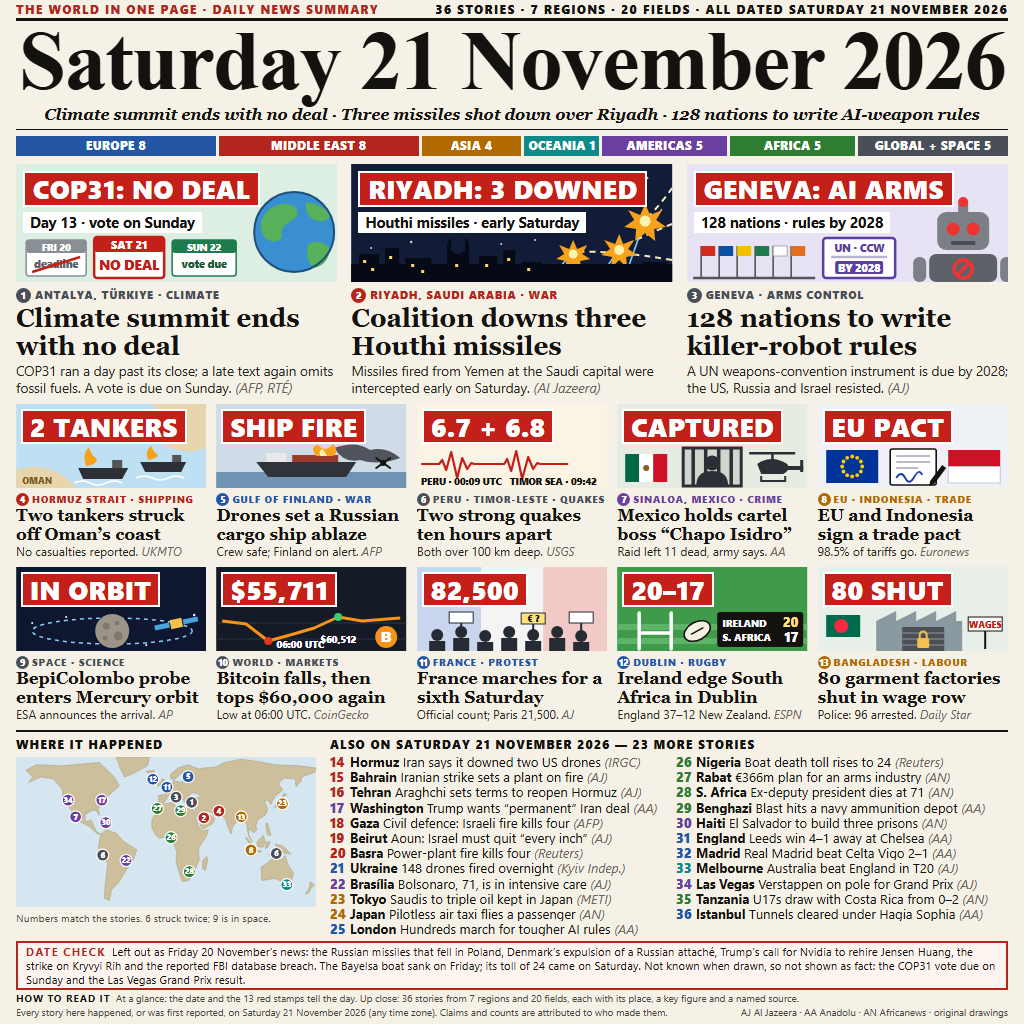
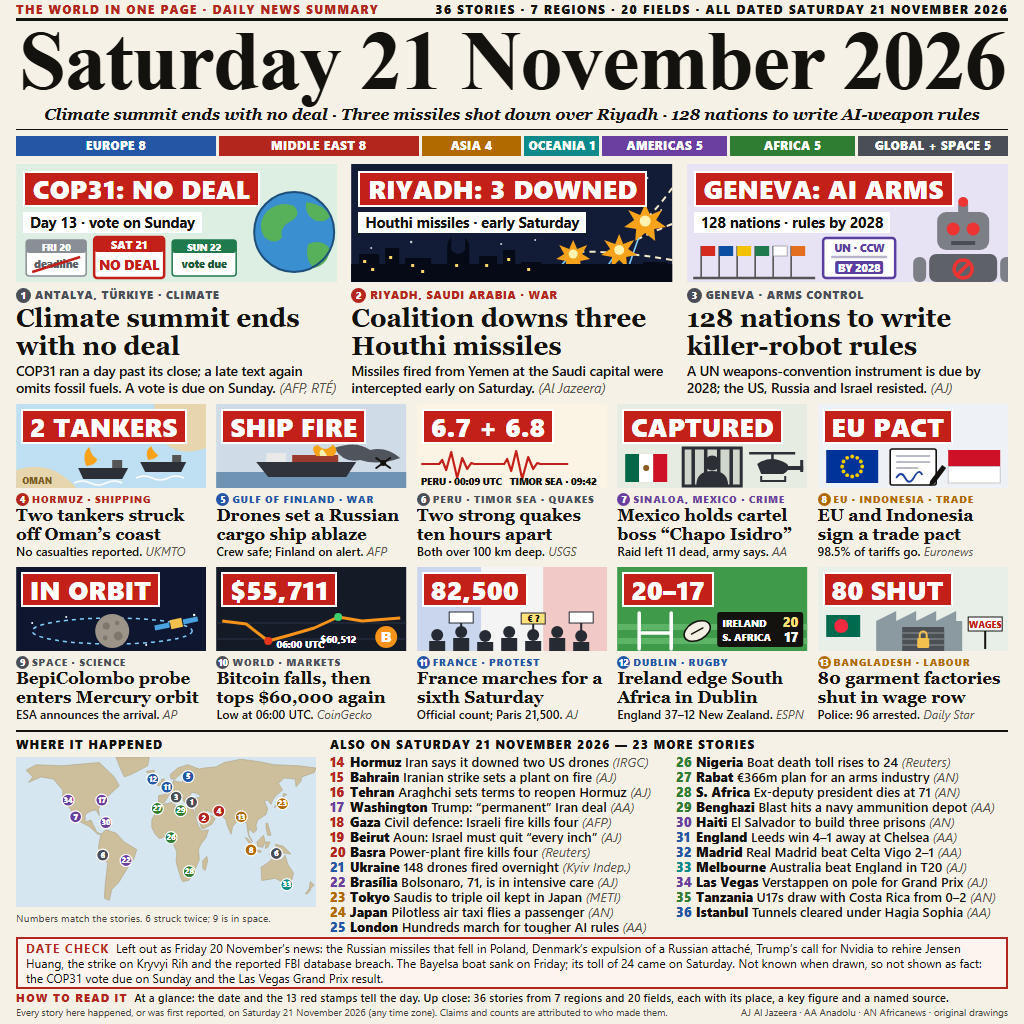
Heavier, darker small text; larger date check and reader's guide

diff --git a/src/page.html b/src/page.html
@@ -32,7 +32,7 @@
   .tag { font-weight: 800; letter-spacing: 1px; color: var(--c); white-space: nowrap; overflow: hidden; }
   .n { display: inline-block; background: var(--c); color: #fff; border-radius: 50%; text-align: center; letter-spacing: 0;
        font-weight: 800; margin-right: 4px; }
-  .src { color: #6a6459; font-style: italic; }
+  .src { color: #57524a; font-style: italic; font-weight: 400; }
 
   /* Leads */
   .leads { height: 234px; margin-top: 8px; display: flex; gap: 14px; }
@@ -43,20 +43,20 @@
   .lead .tag { font-size: 10.5px; line-height: 16px; margin-top: 5px; }
   .lead .n { width: 15px; height: 15px; line-height: 15px; font-size: 10px; }
   .lead h2 { font-family: Georgia, serif; font-size: 26px; line-height: 28px; height: 56px; overflow: hidden; margin-top: 1px; }
-  .lead p { font-size: 13.5px; line-height: 17px; margin-top: 2px; color: #26231e; }
+  .lead p { font-size: 13.5px; line-height: 17px; margin-top: 2px; color: #14120e; font-weight: 600; }
 
   /* Tiles */
   .tiles { height: 318px; margin-top: 6px; display: grid; grid-template-columns: repeat(5, 1fr); grid-template-rows: 155px 155px; gap: 8px 10px; }
   .tile { min-width: 0; }
   .tile .pic { height: 84px; }
   .tile .stamp { font-size: 26px; line-height: 31px; padding: 0 7px; left: 5px; top: 5px; }
-  .tile .tag { font-size: 9.6px; line-height: 14px; margin-top: 4px; }
+  .tile .tag { font-size: 10.3px; line-height: 14px; margin-top: 4px; letter-spacing: .7px; }
   .tile .n { width: 13px; height: 13px; line-height: 13px; font-size: 8.5px; margin-right: 3px; }
   .tile h3 { font-family: Georgia, serif; font-size: 17px; line-height: 19px; height: 38px; overflow: hidden; }
-  .tile p { font-size: 12px; line-height: 15px; white-space: nowrap; overflow: hidden; color: #26231e; }
+  .tile p { font-size: 12px; line-height: 15px; white-space: nowrap; overflow: hidden; color: #14120e; font-weight: 600; }
 
   /* Map and briefs */
-  .bottom { height: 206px; margin-top: 8px; border-top: 2px solid #14120e; padding-top: 5px; display: flex; gap: 14px; }
+  .bottom { height: 202px; margin-top: 8px; border-top: 2px solid #14120e; padding-top: 5px; display: flex; gap: 14px; }
   .bottom h4 { font-size: 11.5px; line-height: 15px; letter-spacing: 1.4px; font-weight: 800; }
   .mapbox { width: 300px; flex: none; }
   .mapbox svg { display: block; width: 300px; height: 150px; margin-top: 5px; }
@@ -64,16 +64,17 @@
   .briefs { flex: 1; min-width: 0; }
   .cols { display: flex; gap: 14px; margin-top: 2px; }
   .cols ul { flex: 1; min-width: 0; list-style: none; }
-  .cols li { font-size: 13px; line-height: 15.2px; white-space: nowrap; overflow: hidden; }
+  .cols li { font-size: 13px; line-height: 15px; white-space: nowrap; overflow: hidden; font-weight: 600; }
   .cols li i { font-style: normal; font-weight: 800; color: var(--c); display: inline-block; width: 20px; }
-  .cols li b { font-weight: 700; }
+  .cols li b { font-weight: 800; }
 
   /* Date check and footer */
-  .check { height: 49px; margin-top: 5px; border: 2px solid #b3261e; background: #fdf3ef; padding: 2px 8px; font-size: 11.4px; line-height: 14.2px; overflow: hidden; }
+  .check { height: 52px; margin-top: 5px; border: 2px solid #b3261e; background: #fdf3ef; padding: 2px 8px; font-size: 12px; line-height: 14.8px; overflow: hidden; }
   .check b { color: #b3261e; letter-spacing: 1.2px; }
-  .foot { height: 28px; margin-top: 1px; font-size: 9.8px; line-height: 13.5px; color: #4b463d; white-space: nowrap; }
+  .foot { height: 29px; margin-top: 1px; font-size: 9.8px; line-height: 13px; color: #4b463d; white-space: nowrap; }
+  .foot .guide { font-size: 11.4px; line-height: 15px; font-weight: 600; color: #14120e; }
   .foot .row { display: flex; justify-content: space-between; }
-  .foot b { color: #14120e; letter-spacing: 1px; }
+  .foot b { color: #b3261e; letter-spacing: 1px; font-weight: 800; }
 </style>
 </head>
 <body>
@@ -189,7 +190,7 @@
       <path d="M70 48 q-5 -12 3 -19 q2 9 8 12 q-1 6 -11 7z" fill="#f7a21b"/><path d="M132 42 q-4 -9 3 -14 q2 6 7 9 q-2 4 -10 5z" fill="#f7a21b"/>
       <path d="M58 65 q8 -4 16 0 t16 0 t16 0 M120 60 q8 -4 16 0 t16 0 t16 0" stroke="#fff" stroke-width="1.6" fill="none"/>
     </svg><div class="stamp">2 TANKERS</div></div>
-    <div class="tag"><span class="n">4</span>HORMUZ STRAIT · SHIPPING</div>
+    <div class="tag"><span class="n">4</span>HORMUZ · SHIPPING</div>
     <h3>Two tankers struck off Oman’s coast</h3>
     <p>No casualties reported. <span class="src">UKMTO</span></p>
   </div>
@@ -215,7 +216,7 @@
         <text x="44" y="67">PERU · 00:09 UTC</text><text x="136" y="67">TIMOR SEA · 09:42</text>
       </g>
     </svg><div class="stamp">6.7 + 6.8</div></div>
-    <div class="tag"><span class="n">6</span>PERU · TIMOR-LESTE · QUAKES</div>
+    <div class="tag"><span class="n">6</span>PERU · TIMOR SEA · QUAKES</div>
     <h3>Two strong quakes ten hours apart</h3>
     <p>Both over 100 km deep. <span class="src">USGS</span></p>
   </div>
@@ -335,7 +336,7 @@
         <li style="--c:var(--me)"><i>14</i><b>Hormuz</b> Iran says it downed two US drones <span class="src">(IRGC)</span></li>
         <li style="--c:var(--me)"><i>15</i><b>Bahrain</b> Iranian strike sets a plant on fire <span class="src">(AJ)</span></li>
         <li style="--c:var(--me)"><i>16</i><b>Tehran</b> Araghchi sets terms to reopen Hormuz <span class="src">(AJ)</span></li>
-        <li style="--c:var(--am)"><i>17</i><b>Washington</b> Trump wants “permanent” Iran deal <span class="src">(AA)</span></li>
+        <li style="--c:var(--am)"><i>17</i><b>Washington</b> Trump: “permanent” Iran deal <span class="src">(AA)</span></li>
         <li style="--c:var(--me)"><i>18</i><b>Gaza</b> Civil defence: Israeli fire kills four <span class="src">(AFP)</span></li>
         <li style="--c:var(--me)"><i>19</i><b>Beirut</b> Aoun: Israel must quit “every inch” <span class="src">(AJ)</span></li>
         <li style="--c:var(--me)"><i>20</i><b>Basra</b> Power-plant fire kills four <span class="src">(Reuters)</span></li>
@@ -365,7 +366,7 @@
 <div class="check"><b>DATE CHECK</b>&nbsp; Left out as Friday 20 November’s news: the Russian missiles that fell in Poland, Denmark’s expulsion of a Russian attaché, Trump’s call for Nvidia to rehire Jensen Huang, the strike on Kryvyi Rih and the reported FBI database breach. The Bayelsa boat sank on Friday; its toll of 24 came on Saturday. Not known when drawn, so not shown as fact: the COP31 vote due on Sunday and the Las Vegas Grand Prix result.</div>
 
 <div class="foot">
-  <div><b>HOW TO READ IT</b>&nbsp; At a glance: the date and the 13 red stamps tell the day. Up close: 36 stories from 7 regions and 20 fields, each with its place, a key figure and a named source.</div>
+  <div class="guide"><b>HOW TO READ IT</b>&nbsp; At a glance: the date and the 13 red stamps tell the day. Up close: 36 stories from 7 regions and 20 fields, each with its place, a key figure and a named source.</div>
   <div class="row"><span>Every story here happened, or was first reported, on Saturday 21 November 2026 (any time zone). Claims and counts are attributed to who made them.</span><span>AJ Al Jazeera · AA Anadolu · AN Africanews · original drawings</span></div>
 </div>
 
